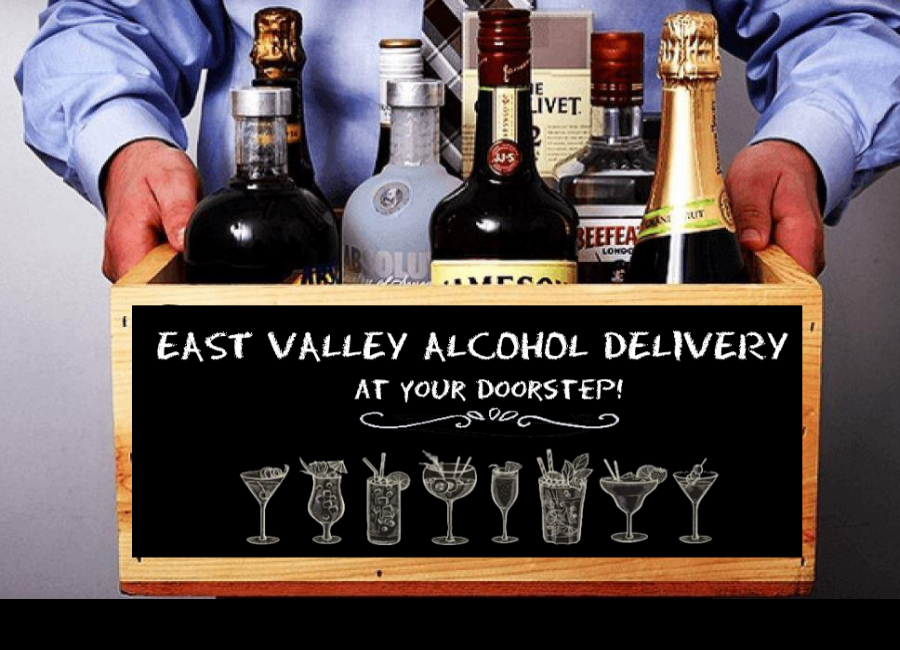
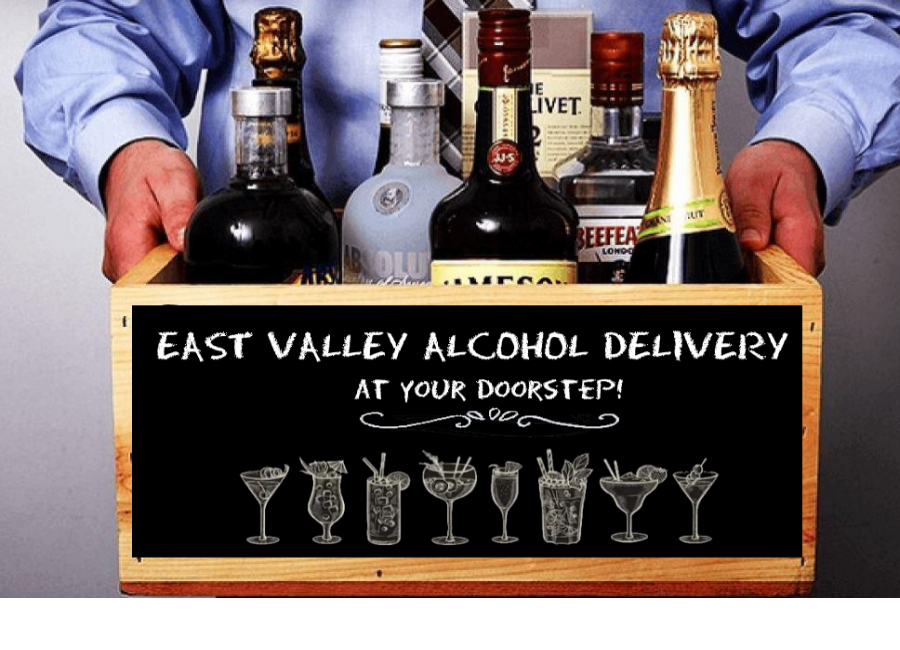
Fixed Index Layout

Changed region(s): [[0.0, 0.9231, 1.0, 1.0]]

diff --git a/html/index.html b/html/index.html
@@ -70,10 +70,10 @@
 
 	.deliveryAdDiv {
 		width: 100%;
-		height: 75vh;
+		height: 80vh;
 		background: url(../imgs/delivery_ad.png) no-repeat center center;
-		background-size: 1000px 600px;
-		background-color: black;
+		background-size: 800px 500px;
+		background-color: white;
 	}
 
 	.searchDiv {
@@ -366,7 +366,7 @@
 		<div class="searchDiv">
 			<div class="searchBox">
 				<input type="text" class="inputBox" id="inputBox" placeholder="What alcoholic beverages are you shopping for?" />
-				<button class="searchButton" id="searchButton" />
+				<button class="searchButton" id="searchButton" onclick="productSearch()" />
 			</div>
 		</div>
 		
@@ -384,7 +384,9 @@
 </body>
 
 <script>
-
+function productSearch(){
+	window.location.href = "products.html?para1=" + document.getElementById("inputBox").value;
+}
 function productSearchValue(queryString){
 
 	window.location.href = "products.html?para1=" + queryString;
